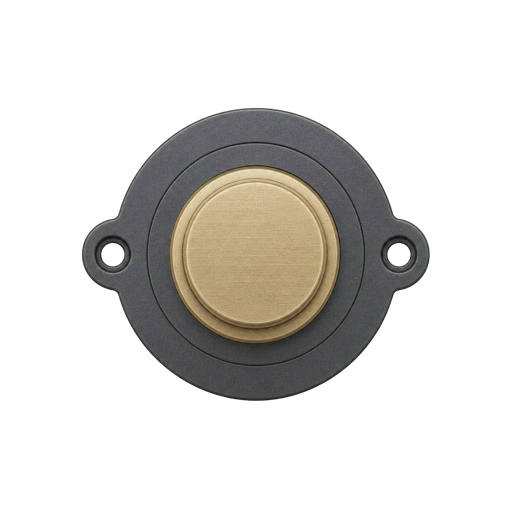
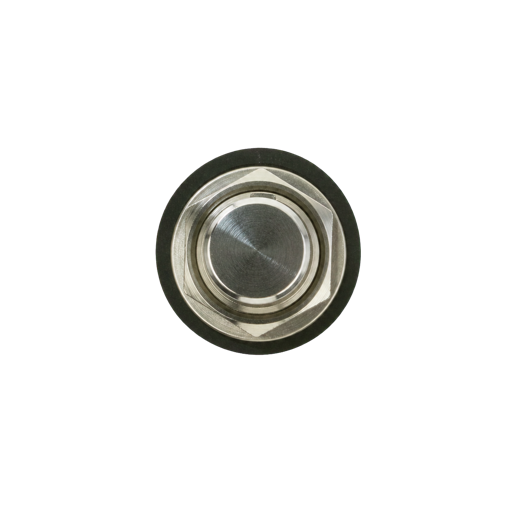
feat: update pedales UI

Changed region(s): [[0.1562, 0.1875, 0.8438, 0.7812]]

diff --git a/ui/src/lib.rs b/ui/src/lib.rs
@@ -1449,8 +1449,8 @@ pub const MONARCH_PEDAL_CONTROLS: &[RenderControlSpec] = &[
         role: RenderControlRole::Parameter(ControlKind::Gain),
         widget: RenderControlWidget::Pot,
         label: "Gain",
-        anchor_x: 0.255,
-        anchor_y: 0.207,
+        anchor_x: 0.234,
+        anchor_y: 0.190,
         radius: 30.0,
         hit_radius: 48.0,
         skin: KnobSkin::Teal,
@@ -1461,7 +1461,7 @@ pub const MONARCH_PEDAL_CONTROLS: &[RenderControlSpec] = &[
         widget: RenderControlWidget::Pot,
         label: "Tone",
         anchor_x: 0.500,
-        anchor_y: 0.207,
+        anchor_y: 0.190,
         radius: 30.0,
         hit_radius: 48.0,
         skin: KnobSkin::Teal,
@@ -1471,8 +1471,8 @@ pub const MONARCH_PEDAL_CONTROLS: &[RenderControlSpec] = &[
         role: RenderControlRole::Parameter(ControlKind::Master),
         widget: RenderControlWidget::Pot,
         label: "Output",
-        anchor_x: 0.745,
-        anchor_y: 0.207,
+        anchor_x: 0.767,
+        anchor_y: 0.190,
         radius: 30.0,
         hit_radius: 48.0,
         skin: KnobSkin::Teal,
@@ -1495,8 +1495,8 @@ pub const MONARCH_PEDAL_CONTROLS: &[RenderControlSpec] = &[
         label: "Bypass",
         anchor_x: 0.500,
         anchor_y: 0.820,
-        radius: 40.0,
-        hit_radius: 50.0,
+        radius: 54.0,
+        hit_radius: 68.0,
         skin: KnobSkin::Teal,
         asset: Some(MONARCH_BRASS_FOOTSWITCH_ASSET),
     },

diff --git a/docs/ai-asset-generation.md b/docs/ai-asset-generation.md
@@ -15,6 +15,34 @@ Do not regenerate a working asset only to satisfy the new ratio. Keep Minotaur a
 
 Attach `docs/templates/pedal-standard-1200x2172.svg` as the layout reference and the closest existing Greybound render as the style reference. The SVG is only a construction guide; its colored lines and placeholder text must not appear in the final image.
 
+### Shared pedal geometry
+
+The template standardizes the mechanical silhouette only; it deliberately does
+not prescribe a knob grid. New pedal designs use:
+
+- canvas: `1200 x 2172 px`, transparent;
+- file boundary: the solid grey outline in the template is the exact PNG edge
+  at `x=0..1200`, `y=0..2172`; use it to judge the final filled area, but do
+  not render it into the asset;
+- enclosure body: `x=72`, `y=72`, `1056 x 2028 px`, outer corner radius
+  `72 px`, with a uniform `24 px` visible bevel. Its inside edge is
+  `x=96`, `y=96`, `1008 x 1980 px`, corner radius `48 px`;
+- side I/O jack placeholders: identical `72 x 136 px` rectangles, fully
+  outside the front-face boundary. Input occupies `x=0..72`, output
+  `x=1128..1200`, both centred at `y=1086`; no part may extend onto the front
+  face;
+- I/O labels: `IN` has a start-aligned baseline at `(120, 1096)` and `OUT` an
+  end-aligned baseline at `(1080, 1096)`; both sit inside the enclosure and
+  align vertically with their jack; use a `44 px` source font size;
+- footswitch placement: the small unlabelled cross at `(600, 1780)` marks its
+  centre only; it is a guide and must not be rendered into the final asset;
+- control-label baseline: centred horizontally on its control anchor and placed
+  `177 px` below it.
+
+Controls themselves remain model-specific: their number, anchor positions,
+sizes, and arrangement are free. The label rule is an offset convention, not a
+requirement to draw labels into a faceplate that uses `DrawnByUi` typography.
+
 ```text
 Create a single photorealistic boutique guitar pedal faceplate as a transparent-background PNG.
 
@@ -22,9 +50,14 @@ Canvas and layout:
 - exact canvas: 1200 x 2172 pixels
 - straight-on orthographic product render, no perspective tilt
 - centered vertical pedal enclosure, rounded corners, realistic bevels
+- use a uniform 24 px enclosure bevel; the outer corner radius is 72 px and
+  the bevel's inside edge has a 48 px radius
 - no external background, no floor, no cast shadow outside the transparent canvas
 - body must fill the safe body area without touching the canvas edges
 - preserve circular hardware proportions; do not stretch the footswitch, jacks, LED bezel, or knob holes
+- use the shared pedal geometry from the attached template: side I/O jacks use
+  the fixed rectangles and the small footswitch cross marks its centre, while
+  controls may be arranged freely
 
 Visual quality:
 - same high-end photorealistic quality as the Greybound Minotaur and Springfield renders
